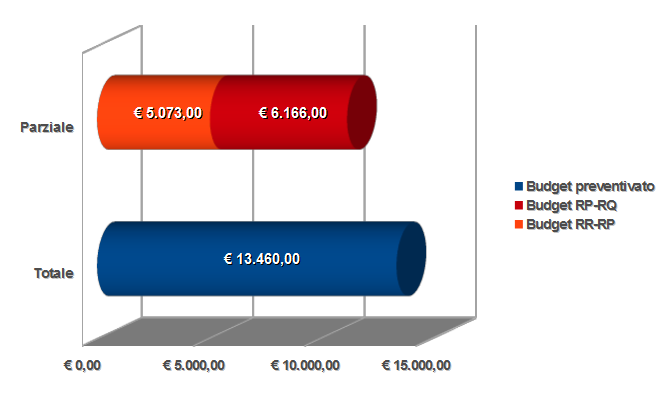
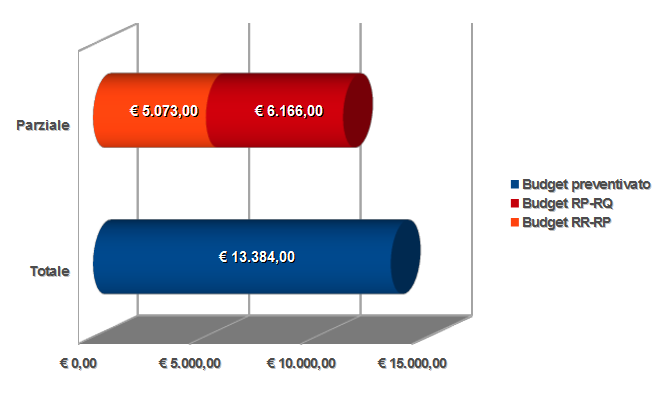
FIX - PianoDiProgetto.tex - Ultimato doc per consegna RA

diff --git a/PianoDiProgetto.tex b/PianoDiProgetto.tex
@@ -953,6 +953,7 @@ In questa fase, la maggior parte delle risorse economiche sono state consumate
 dai progettisti e dai verificatori, seguiti dagli analisti che hanno ultimato il
 loro lavoro.
 
+\newpage
 \subsection{Rivisitazione Preventivo Fase RP-RQ}
 
 In base al consuntivo ottenuto dalla fase precedente, \`e stato rivisitato il
@@ -1147,7 +1148,7 @@ fase in relazione al budget totale accordato con il committente per lo sviluppo 
 
 
 Il Budget speso in questa fase ha combaciato quasi perfettamente con quello
-preventivato. Infatti \`e stato consumato il 45.8\% del budget in questa fase
+preventivato. Infatti \`e stato consumato il 46\% del budget in questa fase
 (6.166 Euro spesi contro 6.174 Euro preventivati), per un totale di 11.239 Euro
 di budget speso finora.
 
@@ -1332,7 +1333,7 @@ Presentiamo ora un grafico del budget utilizzato a fine progetto.
 \vspace{0.5cm}
 
 Come si pu\`o notare, non si \`e superata la soglia del budget, anzi si \`e
-arrivati ad un risparmio di 197 Euro. Per comprendere meglio le spese, esponiamo
+arrivati ad un risparmio di 121 Euro. Per comprendere meglio le spese, esponiamo
 un grafico semplice delle spese in percentuale per ruolo.
 
 \vspace{0cm}
